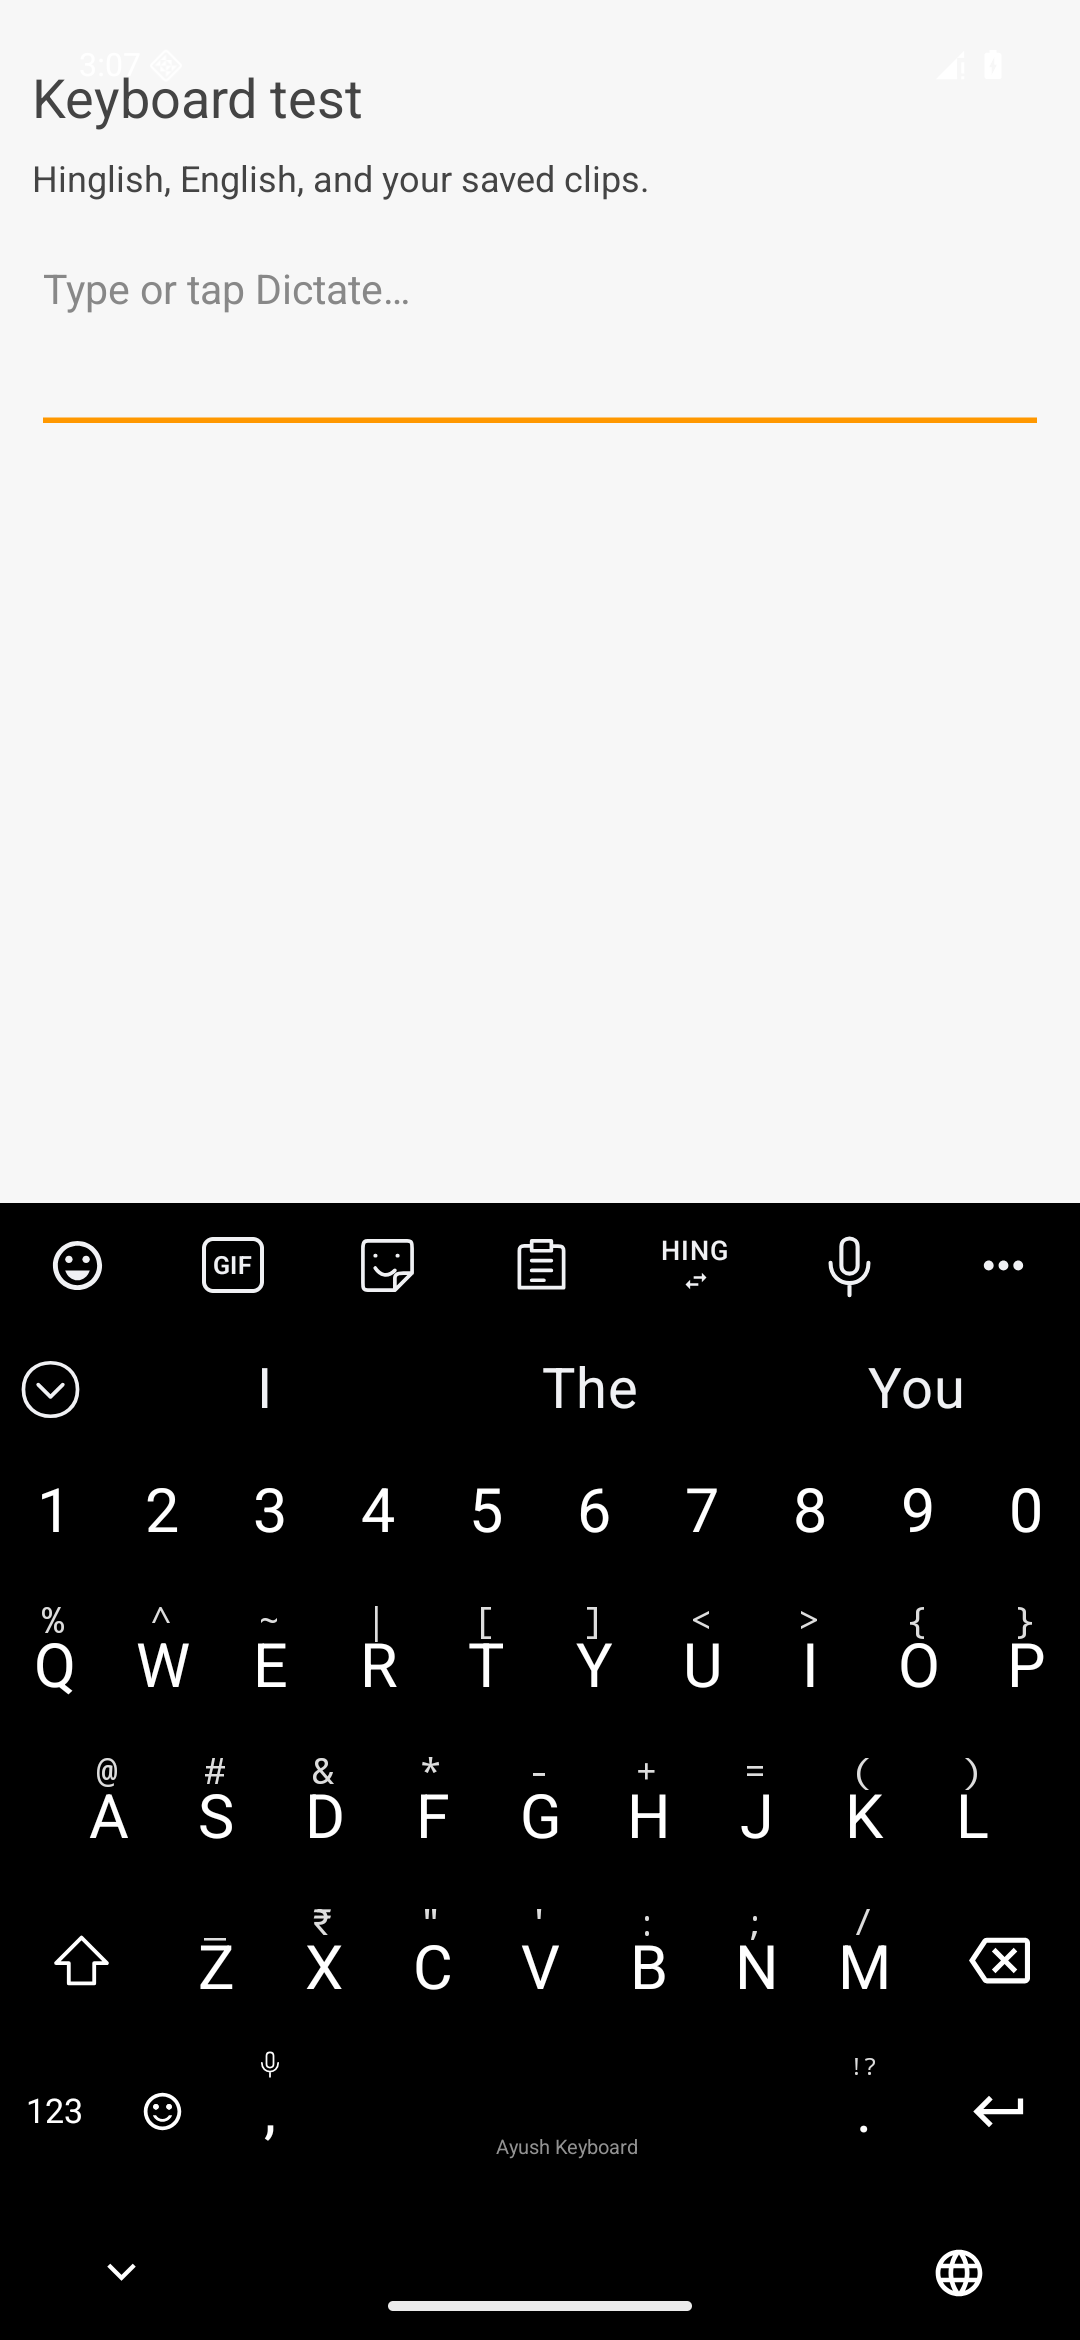
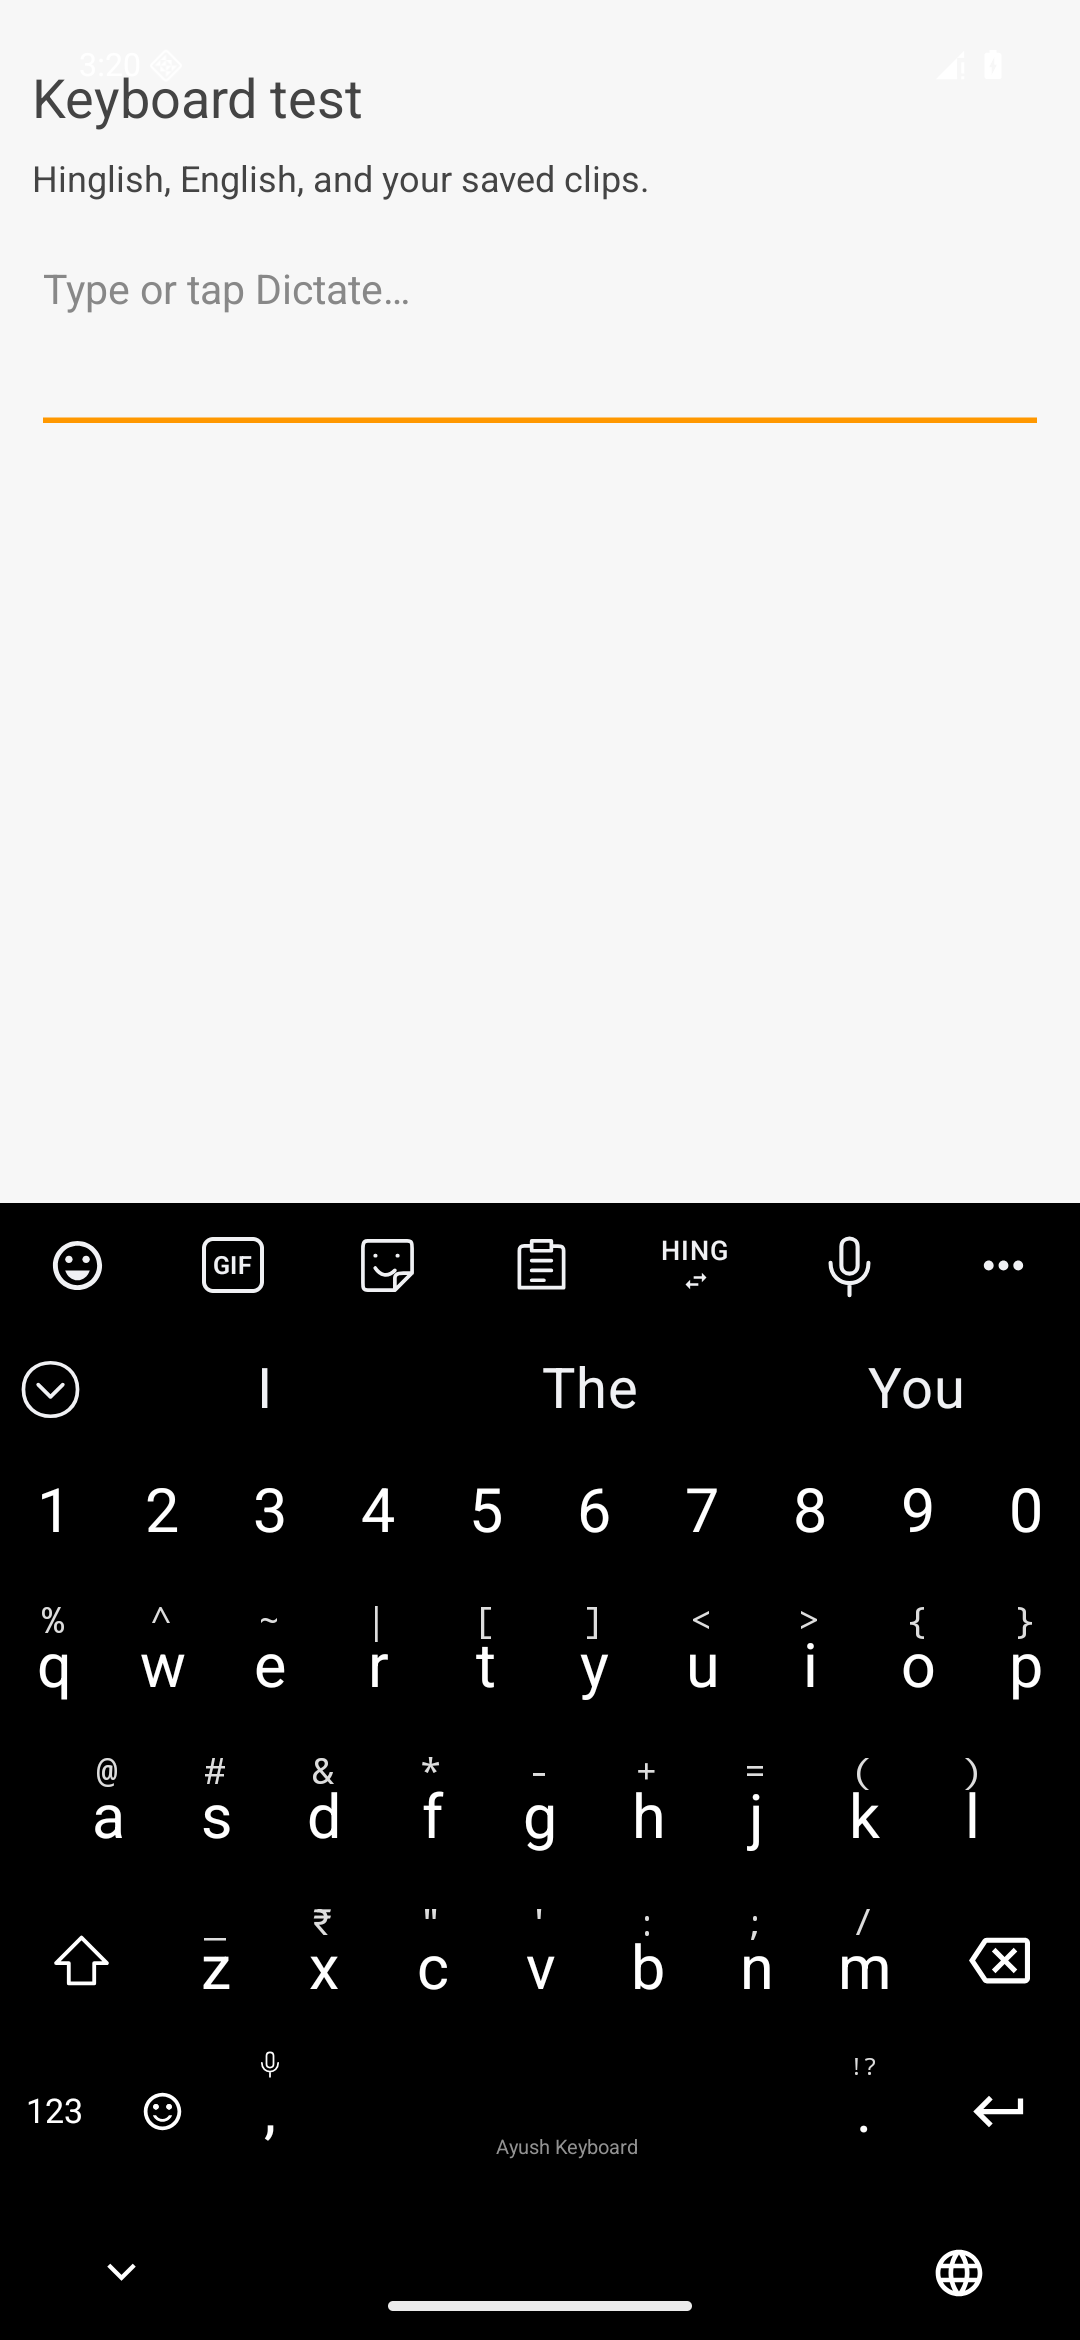
Restore letter labels that follow Shift and Caps Lock

diff --git a/app/src/androidTest/kotlin/dev/patrickgold/florisboard/ime/clipboard/PersonalKeyboardUiTest.kt b/app/src/androidTest/kotlin/dev/patrickgold/florisboard/ime/clipboard/PersonalKeyboardUiTest.kt
@@ -17,6 +17,7 @@ import dev.patrickgold.florisboard.appContext
 import dev.patrickgold.florisboard.clipboardManager
 import dev.patrickgold.florisboard.dictate.DictateController
 import dev.patrickgold.florisboard.dictate.DictateLanguages
+import dev.patrickgold.florisboard.ime.input.InputShiftState
 import dev.patrickgold.florisboard.ime.ImeUiMode
 import dev.patrickgold.florisboard.keyboardManager
 import dev.patrickgold.florisboard.ime.clipboard.provider.ClipboardItem
@@ -140,11 +141,25 @@ class PersonalKeyboardUiTest {
                 await("Number row did not insert a digit") { field.text.toString() == "1" }
                 instrument.runOnMainSync { field.setText("") }
                 SystemClock.sleep(350)
+                await("Unshifted keys should be lowercase") { find("q") != null && find("Q") == null }
+                tap("q")
+                await("Lowercase key did not insert lowercase") { field.text.toString() == "q" }
+                instrument.runOnMainSync { keyboard.activeState.inputShiftState = InputShiftState.SHIFTED_MANUAL }
+                await("Shift did not capitalize key faces") { find("Q") != null }
+                capture("shifted")
                 tap("Q")
-                await("Uppercase key face changed lowercase typing") { field.text.toString() == "q" }
+                await("Shift did not insert uppercase and reset") { field.text.toString() == "qQ" && find("q") != null }
+                instrument.runOnMainSync { keyboard.activeState.inputShiftState = InputShiftState.CAPS_LOCK }
+                await("Caps Lock did not capitalize key faces") { find("Q") != null }
+                tap("Q")
+                tap("Q")
+                await("Caps Lock did not persist") { field.text.toString() == "qQQQ" && find("Q") != null }
+                capture("caps-lock")
+                instrument.runOnMainSync { keyboard.activeState.inputShiftState = InputShiftState.UNSHIFTED }
+                await("Disabling Caps Lock did not restore lowercase") { find("q") != null && find("Q") == null }
                 instrument.runOnMainSync { field.setText("") }
                 SystemClock.sleep(350)
-                tap("Q", holdMs = 650)
+                tap("q", holdMs = 650)
                 await("Q long-press did not insert its displayed percent symbol") { field.text.toString() == "%" }
                 instrument.runOnMainSync { field.setText("") }
                 SystemClock.sleep(350)

diff --git a/app/src/main/kotlin/dev/patrickgold/florisboard/ime/keyboard/ComputingEvaluator.kt b/app/src/main/kotlin/dev/patrickgold/florisboard/ime/keyboard/ComputingEvaluator.kt
@@ -170,8 +170,7 @@ fun ComputingEvaluator.computeLabel(data: KeyData): String? {
     return if (data.type == KeyType.CHARACTER && data.code != KeyCode.SPACE && data.code != KeyCode.CJK_SPACE
         && data.code != KeyCode.HALF_SPACE && data.code != KeyCode.KESHIDA || data.type == KeyType.NUMERIC
     ) {
-        val label = data.asString(isForDisplay = true)
-        if (evaluator.keyboard.mode == KeyboardMode.CHARACTERS && data.code in 97..122) label.uppercase() else label
+        data.asString(isForDisplay = true)
     } else {
         when (data.code) {
             KeyCode.PHONE_PAUSE -> evaluator.context()?.getString(R.string.key__phone_pause)

diff --git a/docs/PERSONAL_KEYBOARD.md b/docs/PERSONAL_KEYBOARD.md
@@ -38,7 +38,7 @@ Install the APK, enable **Ayush Keyboard** in Android keyboard settings, select 
 
 ## Keyboard UI
 
-The layout follows the user's actual SwiftKey setup captured on the Galaxy S24 Ultra: borderless black keys, separate digit row, uppercase key faces, centered symbol hints, and the same bottom-row spacing. Letter faces are uppercase for readability; normal typing still inserts lowercase until Shift is active. The seven-slot toolbar keeps clipboard in the fourth position, the current HING/EN toggle in the fifth, and dictation in the sixth. A stable three-slot prediction row sits below it. Comma also starts dictation on long press.
+The layout follows the user's actual SwiftKey setup captured on the Galaxy S24 Ultra: borderless black keys, separate digit row, letter faces that follow Shift and Caps Lock, centered symbol hints, and the same bottom-row spacing. Key labels and inserted letters both follow the active case. The seven-slot toolbar keeps clipboard in the fourth position, the current HING/EN toggle in the fifth, and dictation in the sixth. A stable three-slot prediction row sits below it. Comma also starts dictation on long press.
 
 Clipboard follows SwiftKey's compact two-column grid with white previews on black. Paste, Type out, pinning, search, and a pinned-only toggle are directly accessible. Saved clips do not expire by default; existing local history and manual deletion remain available. The one-time appearance migration applies this layout while preserving models and history; later theme customization is preserved.
 
@@ -50,7 +50,7 @@ Captured from the running emulator using synthetic clipboard content:
 
 ![Clipboard](screenshots/clipboard.png)
 
-The UI integration check switches HING/EN, verifies lowercase insertion from uppercase faces, the digit row and symbol holds, starts and discards recordings from both mic shortcuts on the emulator, returns between keyboard and clipboard, pins a clip, and verifies Paste and Type out against a real Android field. It leaves the primary clipboard unchanged and deletes its own test entry. Android's virtual-node cache is cleared between panel queries so the check does not act on a stale view of the previous panel.
+The UI integration check switches HING/EN, verifies lowercase, one-letter Shift and persistent Caps Lock, the digit row and symbol holds, starts and discards recordings from both mic shortcuts on the emulator, returns between keyboard and clipboard, pins a clip, and verifies Paste and Type out against a real Android field. It leaves the primary clipboard unchanged and deletes its own test entry. Android's virtual-node cache is cleared between panel queries so the check does not act on a stale view of the previous panel.
 
 ## Earlier engine and clipboard phone validation
 
